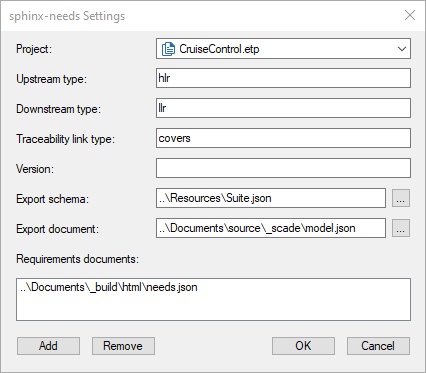
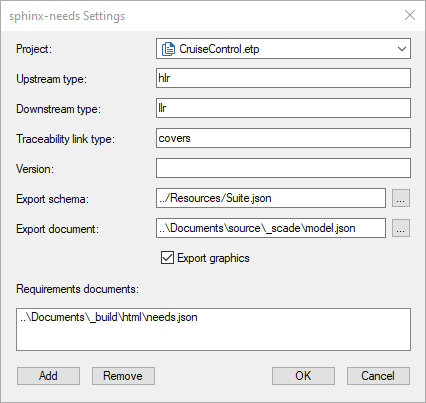
Add an option to export graphics

diff --git a/src/ansys/scade/almgw_sphinx_needs/settings.py b/src/ansys/scade/almgw_sphinx_needs/settings.py
@@ -29,7 +29,7 @@ from pathlib import Path
 from scade.model.project.stdproject import Project, get_roots as get_projects
 from scade.tool.suite.gui.commands import Command, Menu
 from scade.tool.suite.gui.dialogs import Dialog, file_open, file_save
-from scade.tool.suite.gui.widgets import Button, EditBox, Label, ListBox, ObjectComboBox
+from scade.tool.suite.gui.widgets import Button, CheckBox, EditBox, Label, ListBox, ObjectComboBox
 
 import ansys.scade.almgw_sphinx_needs as sn
 import ansys.scade.pyalmgw as pyamlgw
@@ -155,7 +155,7 @@ class LabelComboBox(ObjectComboBox):
 w_settings = wd + hm * 2
 # something strange, need to add one level of margin more
 w_settings += 15
-h_settings = 380
+h_settings = 410
 
 
 class Settings(Dialog):
@@ -178,6 +178,7 @@ class Settings(Dialog):
         self.lb_import_documents = None
         self.pb_ok = None
         self.pb_cancel = None
+        self.cb_graphics = None
 
         # runtime
         self.project = None
@@ -240,6 +241,8 @@ class Settings(Dialog):
         self.ed_export_document = self.add_file(
             y, 'E&xport document:', '.json', default_dir, filter, FSM.LOAD
         )
+        y += dy
+        self.cb_graphics = CheckBox(self, 'Export &graphics', x=xf, y=y, w=wf, h=H_BUTTON)
         y += dy
         Label(self, '&Requirements documents:', x=xl, y=y + 4, w=wl, h=H_LABEL)
         y += dy
@@ -362,6 +365,10 @@ class Settings(Dialog):
         self.ed_export_document.set_name(export_document)
         self.ed_export_document.reldir = str(Path(self.project.pathname).parent)
 
+        assert self.cb_graphics
+        graphics = self.project.get_bool_tool_prop_def(pyamlgw.TOOL, 'DIAGRAMS', False, None)
+        self.cb_graphics.set_check(graphics)
+
     def write_settings(self):
         """Update the project's settings from the dialog."""
         assert self.project
@@ -407,6 +414,10 @@ class Settings(Dialog):
         self.project.set_scalar_tool_prop_def(
             sn.TOOL, sn.EXPORT_DOCUMENT, export_document, sn.EXPORT_DOCUMENT_DEFAULT, None
         )
+
+        assert self.cb_graphics
+        graphics = self.cb_graphics.get_check()
+        self.project.set_bool_tool_prop_def(pyamlgw.TOOL, 'DIAGRAMS', graphics, False, None)
 
 
 # ---------------------------------------------------------------------------

diff --git a/src/ansys/scade/almgw_sphinx_needs/export.py b/src/ansys/scade/almgw_sphinx_needs/export.py
@@ -24,6 +24,8 @@
 
 import datetime
 import json
+from pathlib import Path
+import shutil
 from typing import List
 
 import ansys.scade.almgw_sphinx_needs as sn
@@ -50,14 +52,34 @@ def _export_to_json(llrs: dict, trace: TraceDocument, options: Options):
         oid = llr['oid']
         title = llr['name']
         scade_type = llr['scadetype']
+        scade_type = scade_type[0].upper() + scade_type[1:]
         scade_path = llr['pathname']
         scade_url = llr['url']
-        content = f'`{scade_type} {scade_path} <{scade_url}>`_'
+        icon = llr['icon']
+        if not icon:
+            icon = Path(__file__).parent / 'res' / '_null.png'
+        image = llr.get('image')
+        if not image:
+            image = Path(__file__).parent / 'res' / '_null.png'
         need = {}
         need['id'] = oid
         need['type'] = options.downstream_type
         need['title'] = title
+        content = f'`{scade_type} {scade_path} <{scade_url}>`_'
         need['content'] = content
+        # copy the image to the target directory
+        src = Path(image)
+        dst = target_dir / '_static' / src.name.replace(' ', '_')
+        dst.parent.mkdir(exist_ok=True)
+        shutil.copyfile(src, dst)
+        need['image'] = dst.as_posix()
+        # copy the icon to the target directory
+        src = Path(icon)
+        dst = target_dir / '_static' / src.name.replace(' ', '_')
+        dst.parent.mkdir(exist_ok=True)
+        if not dst.exists():
+            shutil.copyfile(src, dst)
+        need['icon'] = dst.as_posix()
         # additional attributes, must be declared in conf.py
         for attribute in llr.get('attributes', []):
             need[attribute['name']] = attribute['value']

diff --git a/src/ansys/scade/almgw_sphinx_needs/setup.py b/src/ansys/scade/almgw_sphinx_needs/setup.py
@@ -28,6 +28,7 @@ Command line utility to setup a project for the connector.
     usage: setup_ansys_scade_almgw_sphinx_needs [-h] [-p <project>] [-u <upstream>]
                                                 [-d <downstream>] [-l <link>] [-v <version>]
                                                 [-s <schema>] [-o <output>] [-i [<inputs> ...]]
+                                                [-g]
 
     options:
       -h, --help            show this help message and exit
@@ -47,6 +48,7 @@ Command line utility to setup a project for the connector.
                             export document
       -i [<inputs> ...], --inputs [<inputs> ...]
                             requirements documents
+      -g, --graphics        export diagrams
 """
 
 from argparse import ArgumentParser, Namespace
@@ -98,6 +100,9 @@ def setup(project: Project, options: Namespace) -> int:
             sn.TOOL, sn.EXPORT_DOCUMENT, options.output, sn.EXPORT_DOCUMENT_DEFAULT, None
         )
 
+    if options.graphics:
+        project.set_bool_tool_prop_def(pyamlgw.TOOL, 'DIAGRAMS', options.graphics, False, None)
+
     project.save(project.pathname)
     return 0
 
@@ -120,6 +125,9 @@ def main() -> int:
     parser.add_argument('-o', '--output', metavar='<output>', help='export document', default='')
     parser.add_argument(
         '-i', '--inputs', metavar='<inputs>', help='requirements documents', nargs='*', default=[]
+    )
+    parser.add_argument(
+        '-g', '--graphics', action='store_true', help='export diagrams', default=False
     )
 
     options = parser.parse_args()

diff --git a/examples/CruiseControl/Documents/source/conf.py b/examples/CruiseControl/Documents/source/conf.py
@@ -58,13 +58,13 @@ needs_types = [
     {
         'directive': 'hlr',
         'title': 'REQ',
-        'prefix': '',  # prefix for auto-generated IDs
+        'prefix': '',
     },
     # low level requirement
     {
         'directive': 'llr',
         'title': 'SC',
-        'prefix': '',  # prefix for auto-generated IDs
+        'prefix': '',
     },
 ]
 
@@ -77,8 +77,36 @@ needs_extra_links = [
     },
 ]
 
-# corresponds to the annotation DesignElement
-needs_extra_options = ['Nature']
+needs_extra_options = [
+    # mandatory: icon of the element
+    'icon',
+    # when export graphics is selected: image of the element
+    'image',
+    # field 'Nature' of the DesignElement annotation
+    'Nature',
+]
+
+# define a custom layout to
+# * add the icon
+# * hide the id that
+# * insert the diagram or equation sets in the footer
+needs_layouts = {
+    'scade-suite': {
+        'grid': 'simple_footer',
+        'layout': {
+            'head': [
+                '<<meta("type_name")>>: <<image("{{icon}}")>> '
+                '**<<meta("title")>>**>> '
+                '<<collapse_button("meta", collapsed="icon:arrow-down-circle", visible="icon:arrow-right-circle")>>'
+            ],
+            'meta': [
+                '<<meta_all(exclude=["icon", "image", "layout"], no_links=True)>>',
+                'covers: <<meta_links("covers", incoming=False)>>',
+            ],
+            'footer': ['<<image("{{image}}")>>'],
+        },
+    }
+}
 
 # override the default regular expression for SCADE Suite OIDs
 needs_id_regex = r'^[A-Za-z0-9_!/]{5,}'

diff --git a/src/ansys/scade/almgw_sphinx_needs/options.py b/src/ansys/scade/almgw_sphinx_needs/options.py
@@ -41,6 +41,7 @@ class Options:
         self.import_documents = []
         self.export_schema = ''
         self.export_document = None
+        self.graphics = True
 
     def load(self, project: Project):
         """Update the dialog with the project's settings."""
@@ -82,3 +83,5 @@ class Options:
             if path and not path.is_absolute():
                 path = directory.joinpath(path)
             self.export_document = path.resolve()
+
+        self.graphics = project.get_bool_tool_prop_def(pyamlgw.TOOL, 'DIAGRAMS', False, None)

diff --git a/tests/test_setup.py b/tests/test_setup.py
@@ -55,7 +55,7 @@ def _run_setup(*args) -> subprocess.CompletedProcess:
 @pytest.mark.parametrize(
     'name, args',
     [
-        ['all', '-u hlr -d llr -l covers -v 0.9 -s c:/schema.json -o output.json -i a B/c.json'],
+        ['all', '-u hlr -d llr -l covers -v 0.9 -s c:/schema.json -o output.json -i a B/c.json -g'],
         ['none', ''],
     ],
 )

diff --git a/doc/source/user-guide/index.rst b/doc/source/user-guide/index.rst
@@ -10,7 +10,14 @@ Refer to `needs_build_json`_ for details.
 The connector exports the SCADE needs to a file (JSON) that can be imported with
 the directive `needimport`_.
 
+Configuration
+-------------
+
+The connector requires a minimal `build configuration`_ customization, to declare the types and extra options.
+
 Example of sphinx-needs configuration (``conf.py``)::
+
+    ...
 
     # sphinx-needs configuration
     needs_types = [
@@ -37,8 +44,36 @@ Example of sphinx-needs configuration (``conf.py``)::
         },
     ]
 
-    # corresponds to the annotation DesignElement
-    needs_extra_options = ['Nature']
+    needs_extra_options = [
+        # mandatory: icon of the element
+        'icon',
+        # when export graphics is selected: image of the element
+        'image',
+        # field 'Nature' of the DesignElement annotation
+        'Nature',
+    ]
+
+    # define a custom layout to
+    # * add the icon
+    # * hide the id that
+    # * insert the diagram or equation sets in the footer
+    needs_layouts = {
+        'scade-suite': {
+            'grid': 'simple_footer',
+            'layout': {
+                'head': [
+                    '<<meta("type_name")>>: <<image("{{icon}}")>> '
+                    '**<<meta("title")>>**>> '
+                    '<<collapse_button("meta", collapsed="icon:arrow-down-circle", visible="icon:arrow-right-circle")>>'
+                ],
+                'meta': [
+                    '<<meta_all(exclude=["icon", "image", "layout"], no_links=True)>>',
+                    'covers: <<meta_links("covers", incoming=False)>>'
+                ],
+                'footer': ['<<image("{{image}}")>>'],
+            }
+        }
+    }
 
     # override the default regular expression for SCADE Suite OIDs
     needs_id_regex = r'^[A-Za-z0-9_!/]{5,}'
@@ -46,6 +81,11 @@ Example of sphinx-needs configuration (``conf.py``)::
     # export the needs to a json file, to be imported by the connector
     needs_build_json = True
 
+    ...
+
+The ``scade-suite`` layout produces the following output:
+
+.. image:: /_static/llr.png
 
 Declaration
 -----------
@@ -96,6 +136,7 @@ the project. It is located in the ``Scripts`` folder of the Python installation 
    usage: setup_ansys_scade_almgw_sphinx_needs [-h] [-p <project>] [-u <upstream>]
                                                [-d <downstream>] [-l <link>] [-v <version>]
                                                [-s <schema>] [-o <output>] [-i [<inputs> ...]]
+                                               [-g]
 
    options:
      -h, --help            show this help message and exit
@@ -115,6 +156,7 @@ the project. It is located in the ``Scripts`` folder of the Python installation 
                            export document
      -i [<inputs> ...], --inputs [<inputs> ...]
                            requirements documents
+     -g, --graphics        export diagrams
 
 For example:
 
@@ -146,3 +188,4 @@ The connector does not export diagrams and equation sets.
 .. _needs_build_json: https://sphinx-needs.readthedocs.io/en/latest/configuration.html#needs-build-json
 .. _needimport: https://sphinx-needs.readthedocs.io/en/latest/directives/needimport.html#needimport
 .. _Traceable Elements Export Schema: https://pyalmgw.scade.docs.pyansys.com/version/stable/usage/schema.html
+.. _build configuration: https://sphinx-needs.readthedocs.io/en/latest/configuration.html#configuration

diff --git a/examples/CruiseControl/Documents/source/design.rst b/examples/CruiseControl/Documents/source/design.rst
@@ -2,3 +2,4 @@ Design
 ======
 
 .. needimport:: /_scade/model.json
+    :layout: scade-suite
